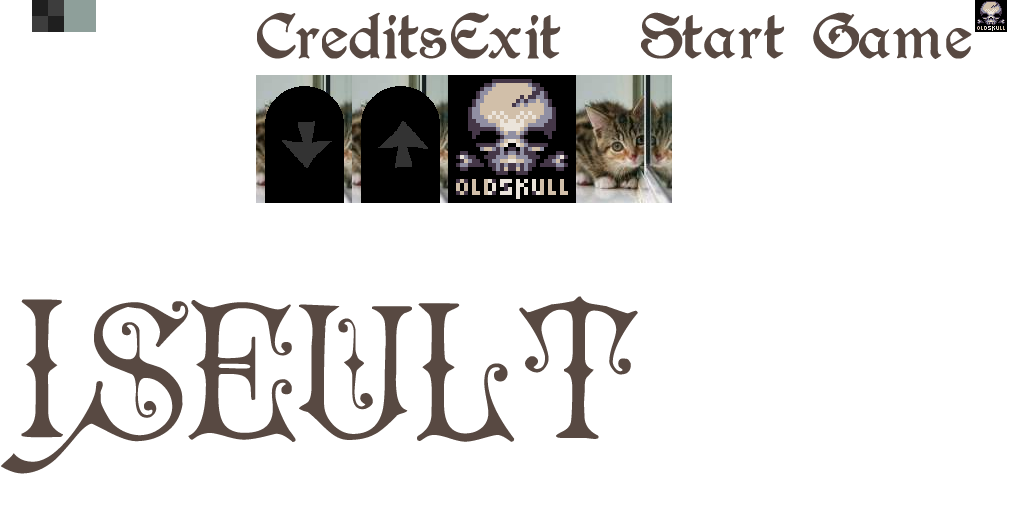
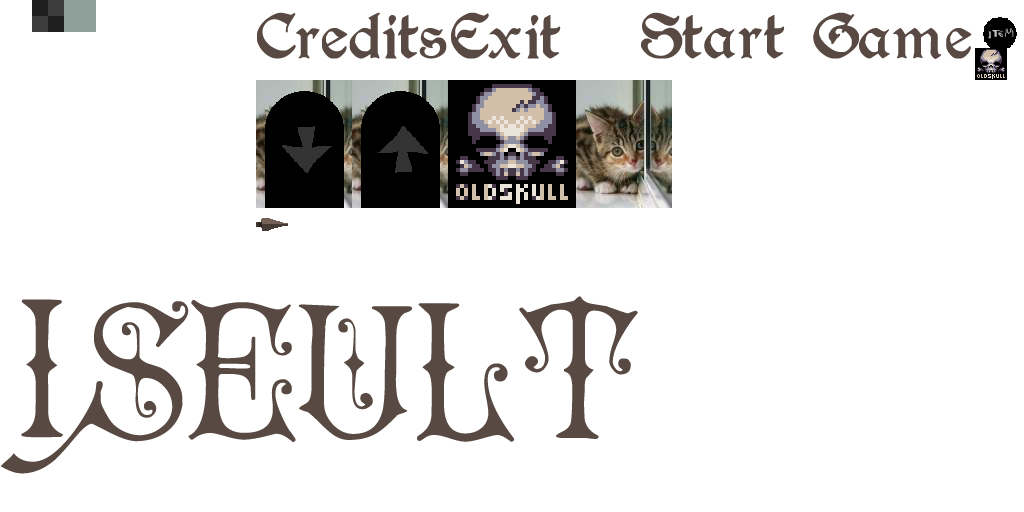
Items and throwables!

Changed region(s): [[0.25, 0.125, 0.6562, 0.4688], [0.9375, 0.0, 1.0, 0.1562], [0.4062, 0.1875, 0.4688, 0.2188]]

diff --git a/Iseult/Castle/Throwable.cs b/Iseult/Castle/Throwable.cs
@@ -1,0 +1,36 @@
+using System;
+using System.Collections.Generic;
+using System.Linq;
+using System.Text;
+using Microsoft.Xna.Framework;
+using OldSkull.GameLevel;
+using OldSkull;
+using Monocle;
+
+namespace Iseult.Castle
+{
+    class Throwable:PlatformLevelEntity
+    {
+        private int side;
+        private string ItemName;
+
+        public Throwable(Vector2 Position, int side, string ItemName)
+            :base(GameLevel.GAMEPLAY_LAYER)
+        {
+            this.Position = Position;
+            this.side = side;
+            this.ItemName = ItemName;
+            Sprite<string> Image = OldSkullGame.SpriteData.GetSpriteString("throwable");
+            Image.Play(ItemName); Image.Effects =
+                 Image.Effects = side == -1 ? Microsoft.Xna.Framework.Graphics.SpriteEffects.FlipHorizontally :
+                 Microsoft.Xna.Framework.Graphics.SpriteEffects.None;
+            Add(Image);
+        }
+
+        public override void Update()
+        {
+            base.Update();
+            X += 12*side;
+        }
+    }
+}

diff --git a/Iseult/Castle/Iseult.cs b/Iseult/Castle/Iseult.cs
@@ -6,6 +6,7 @@ using Monocle;
 using OldSkull.GameLevel;
 using Microsoft.Xna.Framework;
 using OldSkull;
+using Iseult.Castle;
 
 namespace Iseult
 {
@@ -44,6 +45,17 @@ namespace Iseult
                 SelectedDoor.Enter(this);
             }
         }
+
+        public override void Update()
+        {
+            base.Update();
+
+            if (KeyboardInput.pressedInput("use"))
+            {
+                Level.Add(new Throwable(Position, side,"knife"));
+            }
+        }
+
         
         protected override void OnChangeSides(int newSide)
         {

diff --git a/Iseult/Castle/Collectible.cs b/Iseult/Castle/Collectible.cs
@@ -1,0 +1,22 @@
+using System;
+using System.Collections.Generic;
+using System.Linq;
+using System.Text;
+using OldSkull.GameLevel;
+using Microsoft.Xna.Framework;
+using Monocle;
+
+namespace Iseult
+{
+    public class Equip:PlatformerObject
+    {
+        public Equip(Vector2 Position,string ImageName)
+            : base(Position, new Vector2(32, 32))
+        {
+            image = IseultGame.SpriteData.GetSpriteString("item");
+            ((Sprite<string>)image).Play(ImageName);
+            Add(image);
+        }
+
+    }
+}

diff --git a/Iseult/Castle/GameLevel.cs b/Iseult/Castle/GameLevel.cs
@@ -50,6 +50,10 @@ namespace Iseult
                 Add(Second);
                 Stairs.Link(First, Second);
             }
+            else if (e.Name == "Item")
+            {
+                Add(new Equip(new Vector2(e.AttrFloat("x"), e.AttrFloat("y")), "knife"));
+            }
         }
 
         private void AddPlayer(float x, float y)
